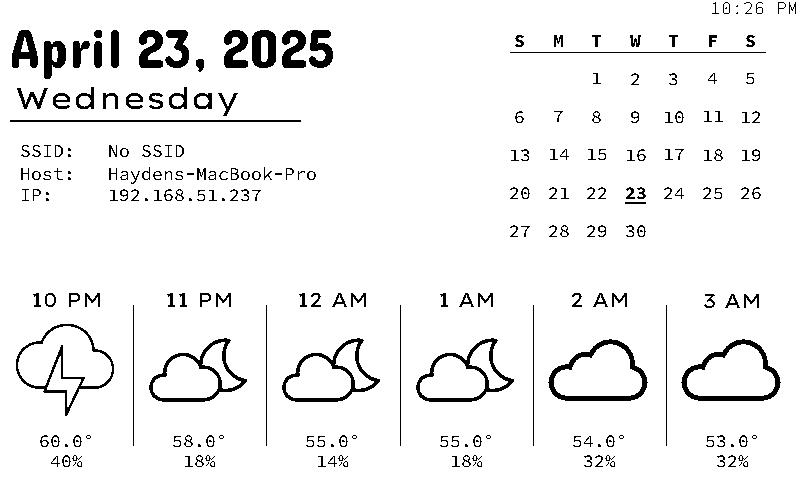
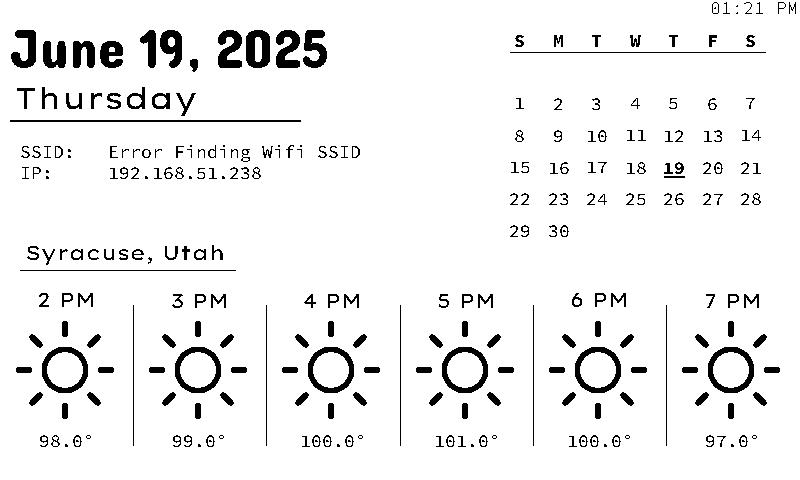
Added location name to weather. Also SSID fetching now works.

diff --git a/display.py b/display.py
@@ -83,6 +83,20 @@ def genImage(width=800, height=480):
     return Himage
 
 
+def fetchLocationData():
+
+    print("Location Key Changed, Fetching New Location Data")
+    apiKey = os.getenv("ACCUWEATHER_API_KEY")
+    locationKey = os.getenv("ACCUWEATHER_LOCATION_KEY")
+    url = f"http://dataservice.accuweather.com/locations/v1/{locationKey}?apikey={apiKey}"
+
+    apiData = requests.get(url).json()
+    with open("data/location.json", "w") as f:
+        json.dump({
+            "for": locationKey,
+            "data": apiData
+        }, f, indent=4)
+
 def getWeather(draw: ImageDraw.ImageDraw, image: Image.Image):
     
     yPos = 300
@@ -105,8 +119,24 @@ def getWeather(draw: ImageDraw.ImageDraw, image: Image.Image):
     else:
         print("Skipping Weather Fetch")
 
+
+    # Read location file
+    location = readJSON("data/location.json")
+    if (location is None):
+        fetchLocationData()
+        location = readJSON("data/location.json")
+    else:
+        if (location["for"] != os.getenv("ACCUWEATHER_LOCATION_KEY")):
+            fetchLocationData()
+            location = readJSON("data/location.json")
+
     # Read file
     data = readJSON("data/data.json")
+    
+
+    locationName = location["data"]["LocalizedName"] + ", " + location["data"]["AdministrativeArea"]["LocalizedName"]
+    draw.text((25, yPos - 35), locationName, "black", subSubFont, anchor="lb")
+    draw.line((20, yPos - 30, 25 + len(locationName) * 15, yPos - 30), fill="black", width=1)
 
     # Screen width is 800
     dx = 800 / 6
@@ -150,11 +180,15 @@ def get_local_ip():
         return "No IP"
 
 def get_ssid():
+
     try:
-        result = subprocess.check_output(["iwgetid", "-r"], text=True)
-        return result.strip() if result.strip() else "No SSID"
-    except:
-        return "No SSID"
+        # Linux
+        wifi_output = subprocess.check_output(["iwgetid", "-r"]).decode("utf-8")
+        return wifi_output.strip()
+
+    except (subprocess.CalledProcessError, FileNotFoundError):
+        return "Error Finding Wifi SSID" # Return an error message if none work
+    
 
 def getNetwork(draw: ImageDraw.ImageDraw):
     x = 20
